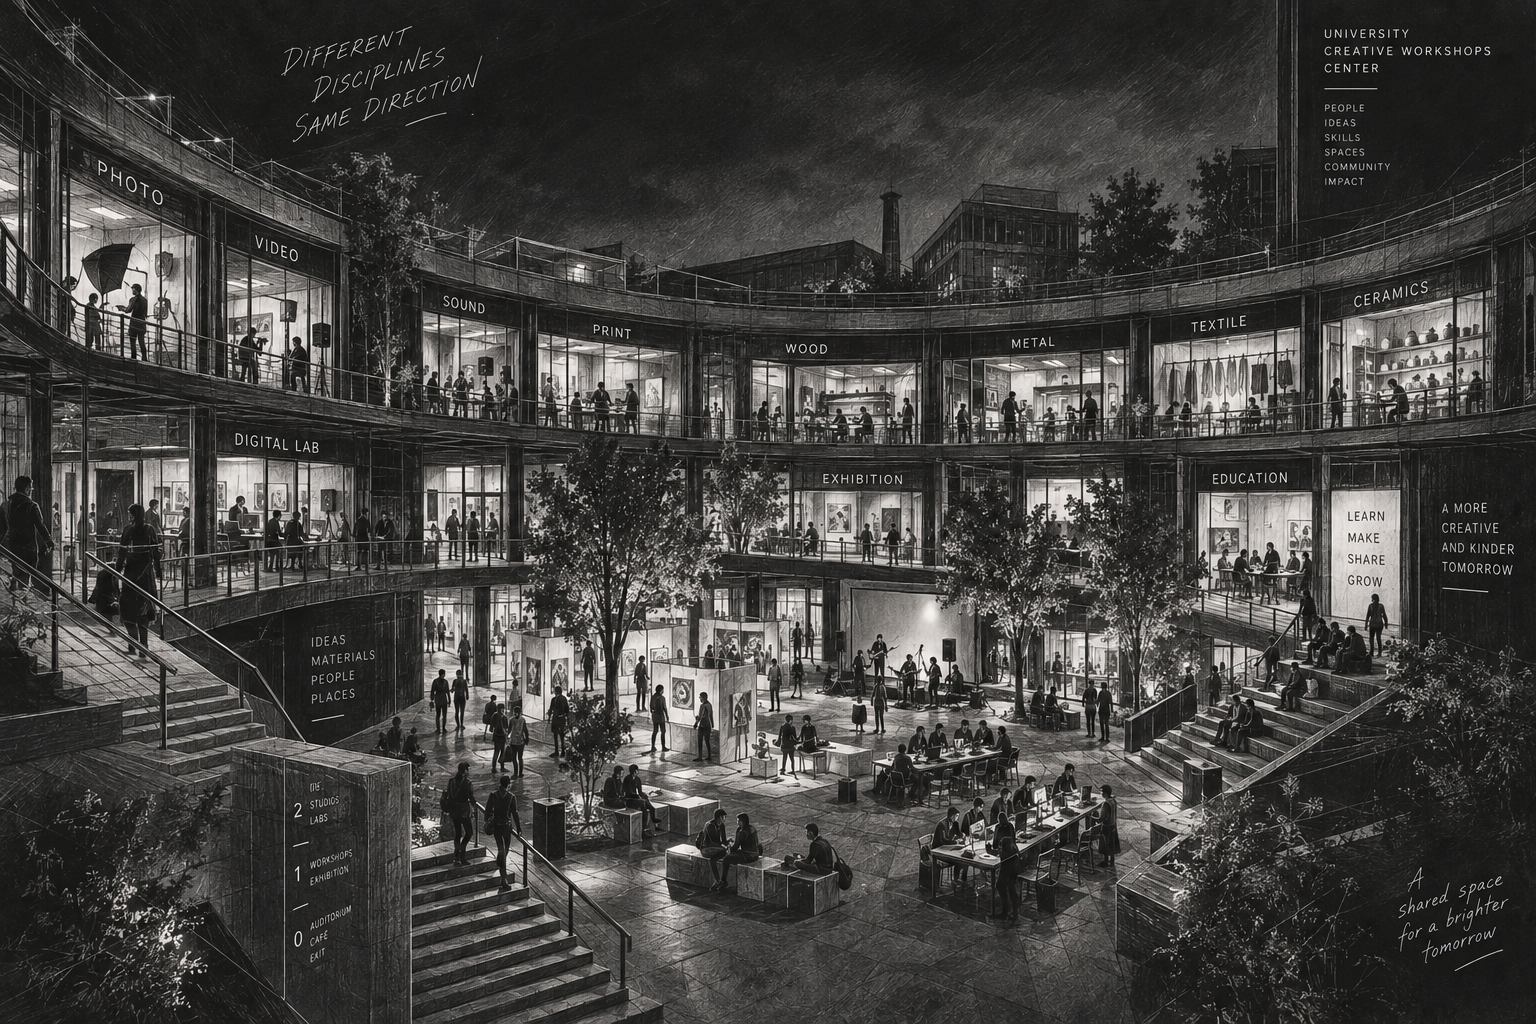
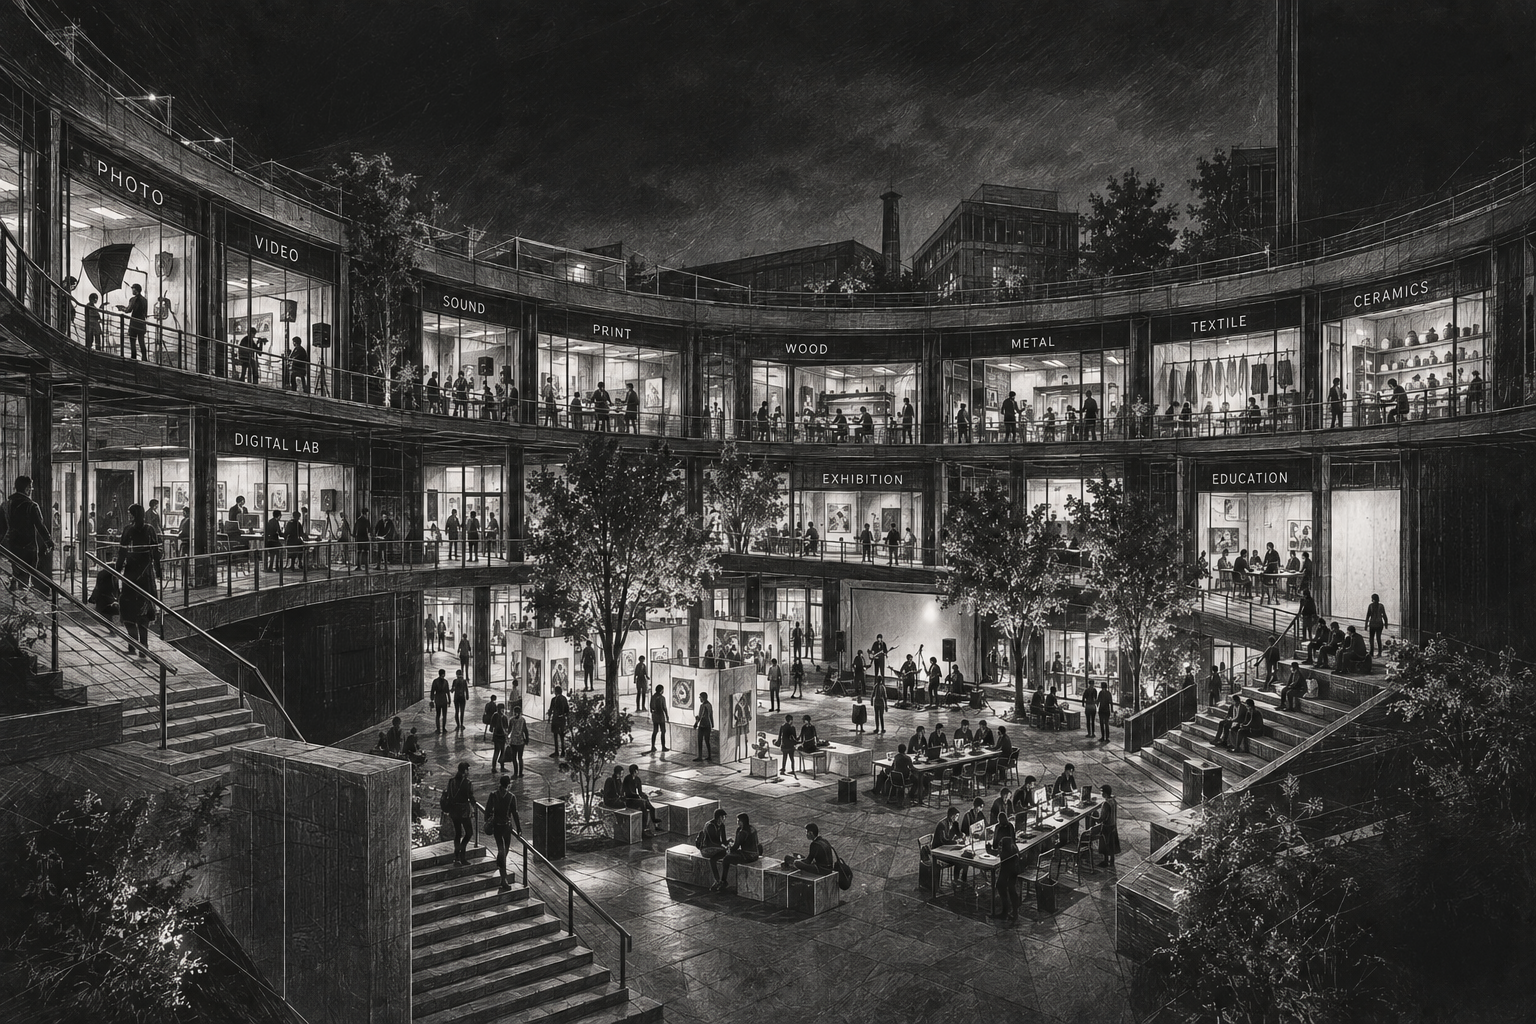
Slide 78 without element tiles; updated campus renders on 79-82
- Slide 78: remove the bottom row of 22 element tiles and their pop-up
  cards.
- Slides 79-82: campus renders replaced with the updated versions from
  the БАЦ folder.

diff --git a/pages/78/index.html b/pages/78/index.html
@@ -6,30 +6,6 @@
   .el78-col { display: flex; flex-direction: column; align-items: center; gap: 26px; }
   .el78-item { display: flex; align-items: baseline; gap: 18px; font-size: 68px; font-weight: 700; letter-spacing: 0.02em; text-transform: uppercase; color: rgba(255,255,255,0.96); line-height: 1.05; }
   .el78-plus { color: rgba(230,230,240,0.4); }
-
-  .el78-footer { position: absolute; left: 0; right: 0; bottom: 54px; display: flex; justify-content: center; }
-  .el78-footer-row { display: flex; gap: 6px; }
-  .el78-mini { width: 54px; height: 54px; flex-shrink: 0; border-radius: 9px; background: linear-gradient(160deg, #2b2b2e 0%, #101012 65%); border: 1px solid rgba(255,255,255,0.14); display: flex; align-items: center; justify-content: center; font-size: 18px; font-weight: 700; color: rgba(255,255,255,0.95); text-decoration: none; cursor: pointer; }
-  .el78-mini.ghost { background: linear-gradient(160deg, #1c1c1e 0%, #0a0a0b 65%); border: 1px dashed rgba(255,255,255,0.18); color: rgba(255,255,255,0.5); }
-  .el78-mini:hover { border-color: rgba(255,255,255,0.4); }
-
-  .el78-modal { display: none; position: fixed; inset: 0; z-index: 1000; align-items: center; justify-content: center; }
-  .el78-modal:target { display: flex; }
-  .el78-modal-bg { position: absolute; inset: 0; background: rgba(0,0,0,0.86); }
-  .el78-modal-inner { position: relative; }
-  .el78-close { position: absolute; top: -14px; right: -14px; width: 32px; height: 32px; border-radius: 50%; background: rgba(255,255,255,0.08); display: flex; align-items: center; justify-content: center; font-size: 16px; font-weight: 600; color: rgba(230,230,240,0.75); text-decoration: none; }
-  .el78-close:hover { color: rgba(255,255,255,0.95); }
-
-  .el78-big { position: relative; width: 340px; height: 340px; border-radius: 22px; background: linear-gradient(160deg, #2b2b2e 0%, #101012 65%); border: 1px solid rgba(255,255,255,0.14); box-shadow: 0 30px 60px rgba(0,0,0,0.55); }
-  .el78-big.ghost { background: linear-gradient(160deg, #1c1c1e 0%, #0a0a0b 65%); border: 1px dashed rgba(255,255,255,0.2); }
-  .el78-big-corner { position: absolute; font-variant-numeric: tabular-nums; }
-  .el78-big-tl { top: 26px; left: 28px; font-size: 20px; font-weight: 600; color: rgba(230,230,240,0.75); }
-  .el78-big-tr { top: 26px; right: 28px; font-size: 20px; font-weight: 600; color: rgba(230,230,240,0.75); }
-  .el78-big-bl { bottom: 26px; left: 28px; font-size: 20px; font-weight: 600; color: rgba(230,230,240,0.75); }
-  .el78-big-br { bottom: 26px; right: 28px; font-size: 15px; font-weight: 700; letter-spacing: 0.08em; text-transform: uppercase; color: rgba(255,255,255,0.92); text-align: right; max-width: 140px; }
-  .el78-big-symbol { position: absolute; inset: 0; display: flex; align-items: center; justify-content: center; font-size: 128px; font-weight: 700; color: rgba(255,255,255,0.97); }
-  .el78-big.ghost .el78-big-symbol { color: rgba(255,255,255,0.55); }
-  .el78-big.ghost .el78-big-corner { color: rgba(230,230,240,0.4); }
 </style>
 <div class="el78-wrap">
   <p class="el78-lead"><b>22</b> элемента под единым брендом</p>
@@ -39,318 +15,3 @@
     <span class="el78-item"><span class="el78-plus">+</span>Profit</span>
   </div>
 </div>
-
-<div class="el78-footer">
-  <div class="el78-footer-row">
-      <a href="#el78-m-Lb" class="el78-mini">Lb</a>
-      <a href="#el78-m-Ph" class="el78-mini">Ph</a>
-      <a href="#el78-m-Rn" class="el78-mini">Rn</a>
-      <a href="#el78-m-Pr" class="el78-mini">Pr</a>
-      <a href="#el78-m-Dr" class="el78-mini">Dr</a>
-      <a href="#el78-m-3D" class="el78-mini">3D</a>
-      <a href="#el78-m-Jw" class="el78-mini">Jw</a>
-      <a href="#el78-m-Cr" class="el78-mini">Cr</a>
-      <a href="#el78-m-Fs" class="el78-mini">Fs</a>
-      <a href="#el78-m-Tx" class="el78-mini">Tx</a>
-      <a href="#el78-m-Pm" class="el78-mini">Pm</a>
-      <a href="#el78-m-Ga" class="el78-mini">Ga</a>
-      <a href="#el78-m-Uc" class="el78-mini ghost">Uc</a>
-      <a href="#el78-m-Ch" class="el78-mini ghost">Ch</a>
-      <a href="#el78-m-Fp" class="el78-mini ghost">Fp</a>
-      <a href="#el78-m-Ar" class="el78-mini ghost">Ar</a>
-      <a href="#el78-m-Au" class="el78-mini ghost">Au</a>
-      <a href="#el78-m-Gl" class="el78-mini ghost">Gl</a>
-      <a href="#el78-m-Vr" class="el78-mini ghost">Vr</a>
-      <a href="#el78-m-Fd" class="el78-mini ghost">Fd</a>
-      <a href="#el78-m-Al" class="el78-mini ghost">Al</a>
-      <a href="#el78-m-Ai" class="el78-mini ghost">Ai</a>
-  </div>
-</div>
-
-  <div id="el78-m-Lb" class="el78-modal">
-    <a href="#" class="el78-modal-bg" aria-label="Закрыть"></a>
-    <div class="el78-modal-inner">
-      <a href="#" class="el78-close">&#10005;</a>
-      <div class="el78-big">
-        <div class="el78-big-corner el78-big-tl">3 / 5.01</div>
-        <div class="el78-big-corner el78-big-tr">1</div>
-        <div class="el78-big-symbol">Lb</div>
-        <div class="el78-big-corner el78-big-bl">2003</div>
-        <div class="el78-big-corner el78-big-br">Библиотека</div>
-      </div>
-    </div>
-  </div>
-  <div id="el78-m-Ph" class="el78-modal">
-    <a href="#" class="el78-modal-bg" aria-label="Закрыть"></a>
-    <div class="el78-modal-inner">
-      <a href="#" class="el78-close">&#10005;</a>
-      <div class="el78-big">
-        <div class="el78-big-corner el78-big-tl">2 / 4.06</div>
-        <div class="el78-big-corner el78-big-tr">2</div>
-        <div class="el78-big-symbol">Ph</div>
-        <div class="el78-big-corner el78-big-bl">2009</div>
-        <div class="el78-big-corner el78-big-br">Фотостудия</div>
-      </div>
-    </div>
-  </div>
-  <div id="el78-m-Rn" class="el78-modal">
-    <a href="#" class="el78-modal-bg" aria-label="Закрыть"></a>
-    <div class="el78-modal-inner">
-      <a href="#" class="el78-close">&#10005;</a>
-      <div class="el78-big">
-        <div class="el78-big-corner el78-big-tl">2 / 4.11</div>
-        <div class="el78-big-corner el78-big-tr">3</div>
-        <div class="el78-big-symbol">Rn</div>
-        <div class="el78-big-corner el78-big-bl">2018</div>
-        <div class="el78-big-corner el78-big-br">Прокат</div>
-      </div>
-    </div>
-  </div>
-  <div id="el78-m-Pr" class="el78-modal">
-    <a href="#" class="el78-modal-bg" aria-label="Закрыть"></a>
-    <div class="el78-modal-inner">
-      <a href="#" class="el78-close">&#10005;</a>
-      <div class="el78-big">
-        <div class="el78-big-corner el78-big-tl">3 / 4.21</div>
-        <div class="el78-big-corner el78-big-tr">4</div>
-        <div class="el78-big-symbol">Pr</div>
-        <div class="el78-big-corner el78-big-bl">2018</div>
-        <div class="el78-big-corner el78-big-br">Принт офис</div>
-      </div>
-    </div>
-  </div>
-  <div id="el78-m-Dr" class="el78-modal">
-    <a href="#" class="el78-modal-bg" aria-label="Закрыть"></a>
-    <div class="el78-modal-inner">
-      <a href="#" class="el78-close">&#10005;</a>
-      <div class="el78-big">
-        <div class="el78-big-corner el78-big-tl">2 / 4.17</div>
-        <div class="el78-big-corner el78-big-tr">5</div>
-        <div class="el78-big-symbol">Dr</div>
-        <div class="el78-big-corner el78-big-bl">2011</div>
-        <div class="el78-big-corner el78-big-br">Даркрум</div>
-      </div>
-    </div>
-  </div>
-  <div id="el78-m-3D" class="el78-modal">
-    <a href="#" class="el78-modal-bg" aria-label="Закрыть"></a>
-    <div class="el78-modal-inner">
-      <a href="#" class="el78-close">&#10005;</a>
-      <div class="el78-big">
-        <div class="el78-big-corner el78-big-tl">3 / 5.14</div>
-        <div class="el78-big-corner el78-big-tr">6</div>
-        <div class="el78-big-symbol">3D</div>
-        <div class="el78-big-corner el78-big-bl">2007</div>
-        <div class="el78-big-corner el78-big-br">3D мастерская</div>
-      </div>
-    </div>
-  </div>
-  <div id="el78-m-Jw" class="el78-modal">
-    <a href="#" class="el78-modal-bg" aria-label="Закрыть"></a>
-    <div class="el78-modal-inner">
-      <a href="#" class="el78-close">&#10005;</a>
-      <div class="el78-big">
-        <div class="el78-big-corner el78-big-tl">3 / 5.14</div>
-        <div class="el78-big-corner el78-big-tr">7</div>
-        <div class="el78-big-symbol">Jw</div>
-        <div class="el78-big-corner el78-big-bl">2016</div>
-        <div class="el78-big-corner el78-big-br">Ювелирная</div>
-      </div>
-    </div>
-  </div>
-  <div id="el78-m-Cr" class="el78-modal">
-    <a href="#" class="el78-modal-bg" aria-label="Закрыть"></a>
-    <div class="el78-modal-inner">
-      <a href="#" class="el78-close">&#10005;</a>
-      <div class="el78-big">
-        <div class="el78-big-corner el78-big-tl">3 / 4.03</div>
-        <div class="el78-big-corner el78-big-tr">8</div>
-        <div class="el78-big-symbol">Cr</div>
-        <div class="el78-big-corner el78-big-bl">2012</div>
-        <div class="el78-big-corner el78-big-br">Керамика</div>
-      </div>
-    </div>
-  </div>
-  <div id="el78-m-Fs" class="el78-modal">
-    <a href="#" class="el78-modal-bg" aria-label="Закрыть"></a>
-    <div class="el78-modal-inner">
-      <a href="#" class="el78-close">&#10005;</a>
-      <div class="el78-big">
-        <div class="el78-big-corner el78-big-tl">3 / 5.03</div>
-        <div class="el78-big-corner el78-big-tr">9</div>
-        <div class="el78-big-symbol">Fs</div>
-        <div class="el78-big-corner el78-big-bl">2008</div>
-        <div class="el78-big-corner el78-big-br">Фешн</div>
-      </div>
-    </div>
-  </div>
-  <div id="el78-m-Tx" class="el78-modal">
-    <a href="#" class="el78-modal-bg" aria-label="Закрыть"></a>
-    <div class="el78-modal-inner">
-      <a href="#" class="el78-close">&#10005;</a>
-      <div class="el78-big">
-        <div class="el78-big-corner el78-big-tl">3 / 4.18</div>
-        <div class="el78-big-corner el78-big-tr">10</div>
-        <div class="el78-big-symbol">Tx</div>
-        <div class="el78-big-corner el78-big-bl">2022</div>
-        <div class="el78-big-corner el78-big-br">Текстиль</div>
-      </div>
-    </div>
-  </div>
-  <div id="el78-m-Pm" class="el78-modal">
-    <a href="#" class="el78-modal-bg" aria-label="Закрыть"></a>
-    <div class="el78-modal-inner">
-      <a href="#" class="el78-close">&#10005;</a>
-      <div class="el78-big">
-        <div class="el78-big-corner el78-big-tl">2 / 4.02</div>
-        <div class="el78-big-corner el78-big-tr">11</div>
-        <div class="el78-big-symbol">Pm</div>
-        <div class="el78-big-corner el78-big-bl">2012</div>
-        <div class="el78-big-corner el78-big-br">Руч.печать</div>
-      </div>
-    </div>
-  </div>
-  <div id="el78-m-Ga" class="el78-modal">
-    <a href="#" class="el78-modal-bg" aria-label="Закрыть"></a>
-    <div class="el78-modal-inner">
-      <a href="#" class="el78-close">&#10005;</a>
-      <div class="el78-big">
-        <div class="el78-big-corner el78-big-tl">3 / 4.00</div>
-        <div class="el78-big-corner el78-big-tr">12</div>
-        <div class="el78-big-symbol">Ga</div>
-        <div class="el78-big-corner el78-big-bl">2026</div>
-        <div class="el78-big-corner el78-big-br">Галерея</div>
-      </div>
-    </div>
-  </div>
-  <div id="el78-m-Uc" class="el78-modal">
-    <a href="#" class="el78-modal-bg" aria-label="Закрыть"></a>
-    <div class="el78-modal-inner">
-      <a href="#" class="el78-close">&#10005;</a>
-      <div class="el78-big ghost">
-        <div class="el78-big-corner el78-big-tl">X / X.XX</div>
-        <div class="el78-big-corner el78-big-tr">13</div>
-        <div class="el78-big-symbol">Uc</div>
-        <div class="el78-big-corner el78-big-bl">2020</div>
-        <div class="el78-big-corner el78-big-br">UCampus</div>
-      </div>
-    </div>
-  </div>
-  <div id="el78-m-Ch" class="el78-modal">
-    <a href="#" class="el78-modal-bg" aria-label="Закрыть"></a>
-    <div class="el78-modal-inner">
-      <a href="#" class="el78-close">&#10005;</a>
-      <div class="el78-big ghost">
-        <div class="el78-big-corner el78-big-tl">X / X.XX</div>
-        <div class="el78-big-corner el78-big-tr">14</div>
-        <div class="el78-big-symbol">Ch</div>
-        <div class="el78-big-corner el78-big-bl">2030</div>
-        <div class="el78-big-corner el78-big-br">Кинозал</div>
-      </div>
-    </div>
-  </div>
-  <div id="el78-m-Fp" class="el78-modal">
-    <a href="#" class="el78-modal-bg" aria-label="Закрыть"></a>
-    <div class="el78-modal-inner">
-      <a href="#" class="el78-close">&#10005;</a>
-      <div class="el78-big ghost">
-        <div class="el78-big-corner el78-big-tl">X / X.XX</div>
-        <div class="el78-big-corner el78-big-tr">15</div>
-        <div class="el78-big-symbol">Fp</div>
-        <div class="el78-big-corner el78-big-bl">2030</div>
-        <div class="el78-big-corner el78-big-br">Кинопавильон</div>
-      </div>
-    </div>
-  </div>
-  <div id="el78-m-Ar" class="el78-modal">
-    <a href="#" class="el78-modal-bg" aria-label="Закрыть"></a>
-    <div class="el78-modal-inner">
-      <a href="#" class="el78-close">&#10005;</a>
-      <div class="el78-big ghost">
-        <div class="el78-big-corner el78-big-tl">X / X.XX</div>
-        <div class="el78-big-corner el78-big-tr">16</div>
-        <div class="el78-big-symbol">Ar</div>
-        <div class="el78-big-corner el78-big-bl">2030</div>
-        <div class="el78-big-corner el78-big-br">Арт мастерские</div>
-      </div>
-    </div>
-  </div>
-  <div id="el78-m-Au" class="el78-modal">
-    <a href="#" class="el78-modal-bg" aria-label="Закрыть"></a>
-    <div class="el78-modal-inner">
-      <a href="#" class="el78-close">&#10005;</a>
-      <div class="el78-big ghost">
-        <div class="el78-big-corner el78-big-tl">X / X.XX</div>
-        <div class="el78-big-corner el78-big-tr">17</div>
-        <div class="el78-big-symbol">Au</div>
-        <div class="el78-big-corner el78-big-bl">2028</div>
-        <div class="el78-big-corner el78-big-br">Звукозапись</div>
-      </div>
-    </div>
-  </div>
-  <div id="el78-m-Gl" class="el78-modal">
-    <a href="#" class="el78-modal-bg" aria-label="Закрыть"></a>
-    <div class="el78-modal-inner">
-      <a href="#" class="el78-close">&#10005;</a>
-      <div class="el78-big ghost">
-        <div class="el78-big-corner el78-big-tl">X / X.XX</div>
-        <div class="el78-big-corner el78-big-tr">18</div>
-        <div class="el78-big-symbol">Gl</div>
-        <div class="el78-big-corner el78-big-bl">2030</div>
-        <div class="el78-big-corner el78-big-br">Стеклодувная</div>
-      </div>
-    </div>
-  </div>
-  <div id="el78-m-Vr" class="el78-modal">
-    <a href="#" class="el78-modal-bg" aria-label="Закрыть"></a>
-    <div class="el78-modal-inner">
-      <a href="#" class="el78-close">&#10005;</a>
-      <div class="el78-big ghost">
-        <div class="el78-big-corner el78-big-tl">X / X.XX</div>
-        <div class="el78-big-corner el78-big-tr">19</div>
-        <div class="el78-big-symbol">Vr</div>
-        <div class="el78-big-corner el78-big-bl">2030</div>
-        <div class="el78-big-corner el78-big-br">VR</div>
-      </div>
-    </div>
-  </div>
-  <div id="el78-m-Fd" class="el78-modal">
-    <a href="#" class="el78-modal-bg" aria-label="Закрыть"></a>
-    <div class="el78-modal-inner">
-      <a href="#" class="el78-close">&#10005;</a>
-      <div class="el78-big ghost">
-        <div class="el78-big-corner el78-big-tl">X / X.XX</div>
-        <div class="el78-big-corner el78-big-tr">20</div>
-        <div class="el78-big-symbol">Fd</div>
-        <div class="el78-big-corner el78-big-bl">2030</div>
-        <div class="el78-big-corner el78-big-br">Кухня</div>
-      </div>
-    </div>
-  </div>
-  <div id="el78-m-Al" class="el78-modal">
-    <a href="#" class="el78-modal-bg" aria-label="Закрыть"></a>
-    <div class="el78-modal-inner">
-      <a href="#" class="el78-close">&#10005;</a>
-      <div class="el78-big ghost">
-        <div class="el78-big-corner el78-big-tl">X / X.XX</div>
-        <div class="el78-big-corner el78-big-tr">21</div>
-        <div class="el78-big-symbol">Al</div>
-        <div class="el78-big-corner el78-big-bl">2030</div>
-        <div class="el78-big-corner el78-big-br">Клуб выпускников</div>
-      </div>
-    </div>
-  </div>
-  <div id="el78-m-Ai" class="el78-modal">
-    <a href="#" class="el78-modal-bg" aria-label="Закрыть"></a>
-    <div class="el78-modal-inner">
-      <a href="#" class="el78-close">&#10005;</a>
-      <div class="el78-big ghost">
-        <div class="el78-big-corner el78-big-tl">X / X.XX</div>
-        <div class="el78-big-corner el78-big-tr">22</div>
-        <div class="el78-big-symbol">Ai</div>
-        <div class="el78-big-corner el78-big-bl">2030</div>
-        <div class="el78-big-corner el78-big-br">Лаборатория ИИ</div>
-      </div>
-    </div>
-  </div>
-
